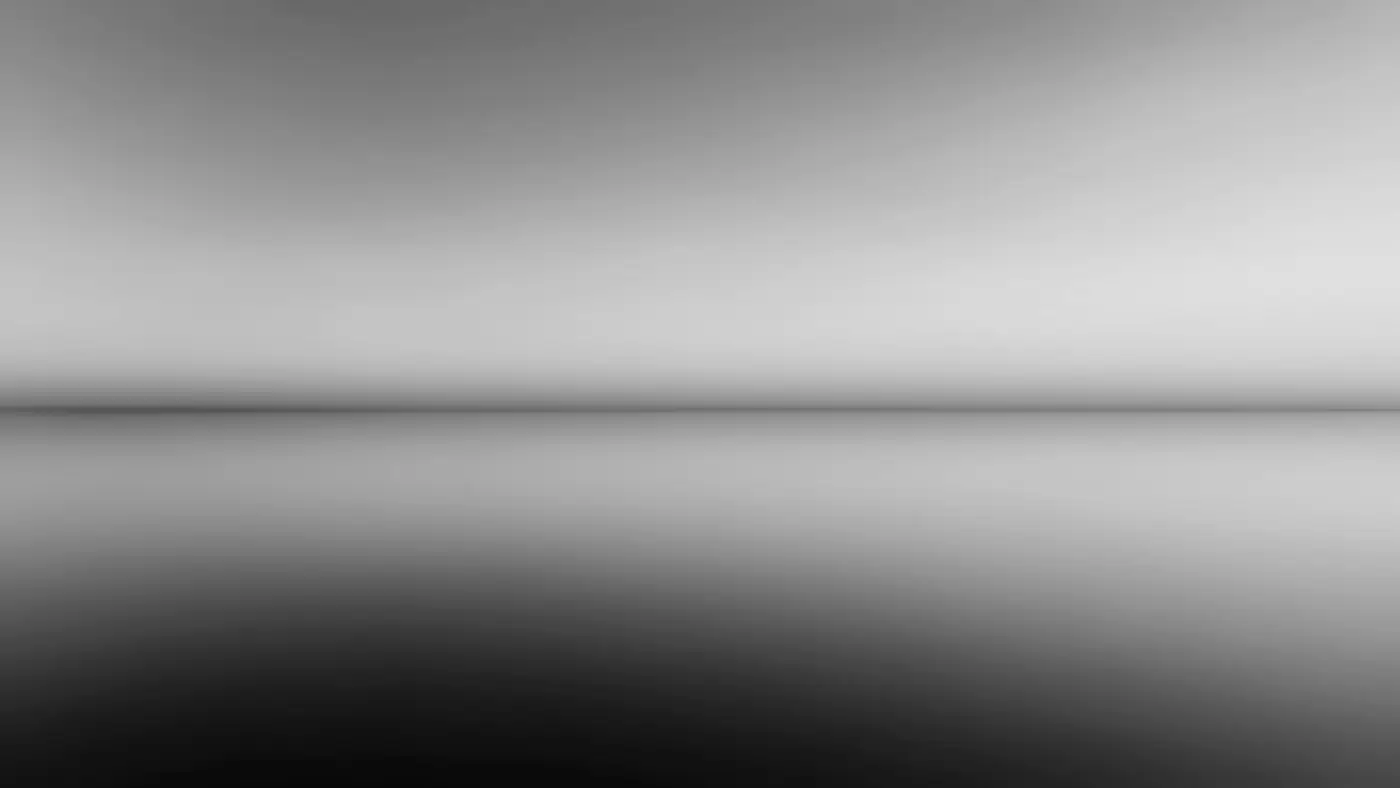
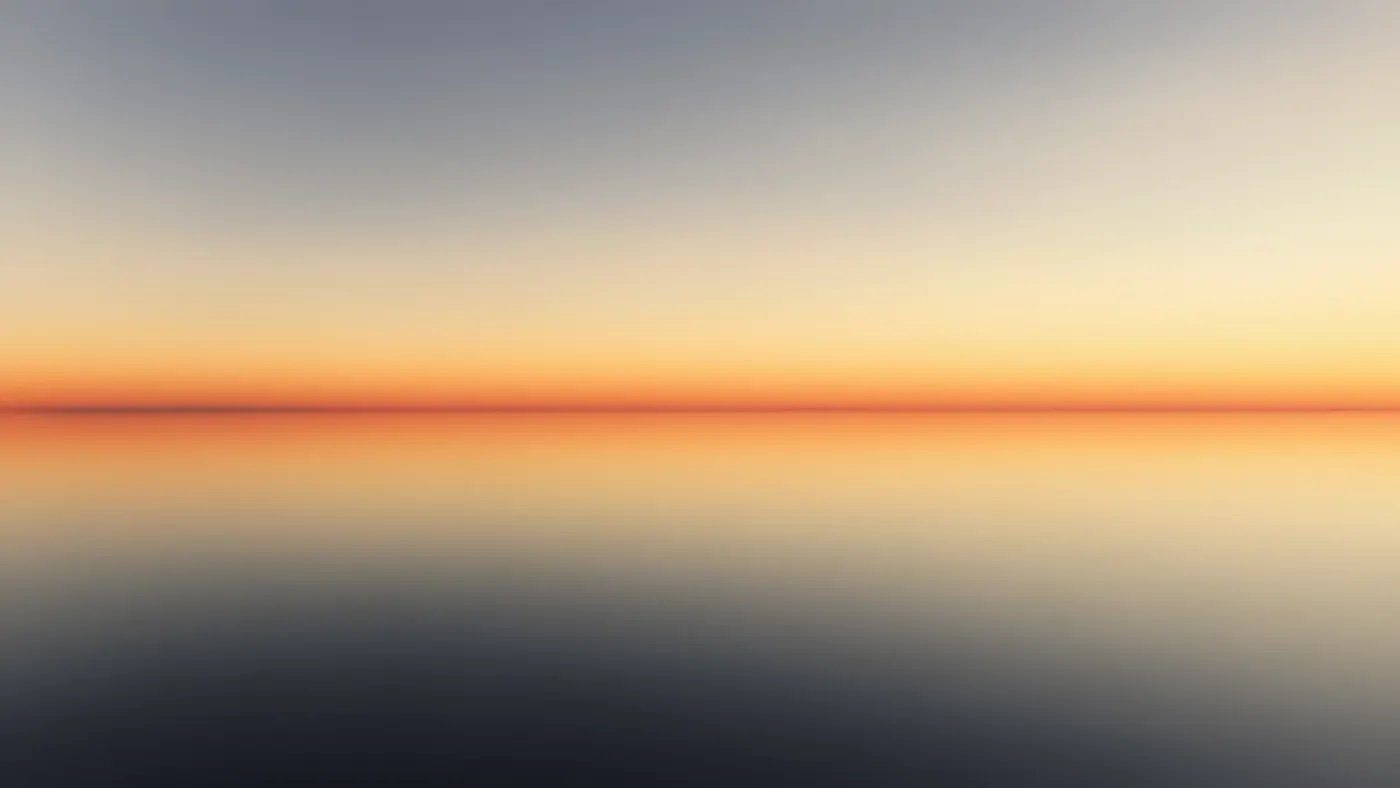
Obra: el contenido del libro vuelve al diseño anterior (papel, fotos a color, arte con paleta); solo la cubierta queda negra
Claude-Session: https://claude.ai/code/session_01QmsgToyzAdCvMSUUYzzKLK

diff --git a/src/styles/book.css b/src/styles/book.css
@@ -24,7 +24,7 @@
 .bw-ribbon { position: absolute; left: calc(50% + var(--pw) * 0.07); top: 99%; width: calc(var(--pw) * 0.022); height: calc(var(--ph) * 0.17); background: linear-gradient(90deg, #b9bcc4, #868a93); clip-path: polygon(0 0, 100% 0, 100% 100%, 50% 84%, 0 100%); transform: translateZ(-14px); }
 .bw-gutter { position: absolute; left: calc(50% - var(--pw) * 0.03); top: 0; width: calc(var(--pw) * 0.06); height: 100%; background: linear-gradient(to right, transparent, rgba(0, 0, 0, 0.4) 48%, rgba(0, 0, 0, 0.4) 52%, transparent); transform: translateZ(13px); opacity: 0; pointer-events: none; }
 .bw-end, .bw-leaf { position: absolute; left: 50%; top: 0; width: var(--pw); height: var(--ph); }
-.bw-end { transform: translateZ(-1px); font-size: calc(var(--pw) / 34); }
+.bw-end { transform: translateZ(-1px); font-size: calc(var(--pw) / 40); }
 .bw-end > .pg { border-radius: 2px 6px 6px 2px; }
 .bw-leaf { transform-origin: 0 50%; transform-style: preserve-3d; cursor: pointer; }
 .lf, .lc { position: absolute; inset: 0; transform-style: preserve-3d; }
@@ -32,7 +32,7 @@
 .sg > .sg { left: 100%; }
 .sf, .sb { position: absolute; inset: 0; width: calc(100% + 1.6px); overflow: hidden; backface-visibility: hidden; -webkit-backface-visibility: hidden; }
 .sb { transform: rotateY(180deg); }
-.sc { position: absolute; top: 0; left: 0; width: var(--pw); height: var(--ph); font-size: calc(var(--pw) / 34); }
+.sc { position: absolute; top: 0; left: 0; width: var(--pw); height: var(--ph); font-size: calc(var(--pw) / 40); }
 .shd { position: absolute; inset: 0; z-index: 5; background: #000; opacity: 0; pointer-events: none; }
 
 /* Objetos de pie: se contrarrestan con JS para mirar siempre a la cámara */
@@ -40,81 +40,85 @@
 .bw-cup { --w: calc(var(--pw) * 0.19); width: var(--w); height: calc(var(--w) * 0.9167); left: calc(var(--pw) * 0.9); top: calc(var(--ph) * -0.7 - var(--w) * 0.9167); }
 .bw-plant { --w: calc(var(--pw) * 0.15); width: var(--w); height: calc(var(--w) * 1.4); left: calc(var(--pw) * 0.62); top: calc(var(--ph) * -0.6 - var(--w) * 1.4); }
 
-/* Páginas */
-.pg { position: absolute; inset: 0; overflow: hidden; color: var(--ink); font-family: 'Inter Tight Variable', system-ui, sans-serif; background: url('/configurador/mesa.webp') 0 0 / 128px 128px, linear-gradient(160deg, #17181d, #0a0b0d); }
-.pg b, .pg h4, .pg h5 { font-weight: 500; }
-.pg-bar { position: absolute; left: 2.2em; right: 2.2em; top: 1.6em; z-index: 3; display: flex; align-items: center; gap: 1.6em; font-size: 0.6em; color: var(--mute); letter-spacing: 0.04em; }
-.pg-bar b { margin-right: auto; font-size: 1.2em; color: var(--ink); letter-spacing: 0.16em; text-transform: uppercase; font-weight: 500; }
-.pg-bar i { font-style: normal; padding: 0.55em 1.2em; border-radius: 99em; border: 1px solid rgba(255, 255, 255, 0.35); color: var(--ink); }
+/* Páginas: el contenido conserva el diseño original (papel, fotos a color, arte con la paleta); solo la cubierta es negra */
+.pg { position: absolute; inset: 0; overflow: hidden; font-family: var(--sfont, 'Inter Tight Variable', system-ui, sans-serif); }
+.pg.lt { background: #f4f1ea; color: #15161a; } .pg.dk { background: #0d0e12; color: #f3f1ec; }
+
+.pg-bar { position: absolute; left: 2.2em; right: 2.2em; top: 1.5em; z-index: 3; display: flex; align-items: center; gap: 1.6em; font-size: 0.62em; }
+.pg-bar b { margin-right: auto; font-size: 1.25em; letter-spacing: 0.02em; }
+.pg-bar span { opacity: 0.75; } .pg-bar i { font-style: normal; padding: 0.55em 1.2em; border-radius: 99em; background: currentColor; }
+.pg-bar i { color: inherit; position: relative; } .pg.lt .pg-bar i { background: #15161a; color: #f4f1ea; } .pg.dk .pg-bar i { background: #f3f1ec; color: #0d0e12; }
 .pg-ph { position: absolute; overflow: hidden; background-size: cover; background-position: center; }
 .pg-ph.photo { background-image: var(--pix, none); }
 .bw-leaf.pixing .pg-ph.photo { image-rendering: pixelated; }
 .pg-txt { position: absolute; z-index: 3; }
-.pg-k { font-size: 0.62em; letter-spacing: 0.2em; text-transform: uppercase; color: var(--mute); }
-.pg h4 { margin-top: 0.8em; line-height: 1.02; letter-spacing: -0.035em; font-weight: 500; }
-.pg-s { margin-top: 1.1em; font-size: 0.74em; line-height: 1.55; color: var(--mute); }
-.pg-btn { display: inline-block; margin-top: 1.6em; font-size: 0.66em; letter-spacing: 0.06em; padding: 0.85em 1.6em; border-radius: 99em; border: 1px solid rgba(255, 255, 255, 0.4); color: var(--ink); }
-.pg-pct { position: absolute; right: 2em; bottom: 1.3em; z-index: 4; font-size: 0.8em; letter-spacing: 0.18em; font-weight: 400; color: rgba(255, 255, 255, 0.85); opacity: 0; transition: opacity 0.4s; }
+.pg-k { font-size: 0.66em; letter-spacing: 0.16em; text-transform: uppercase; opacity: 0.7; }
+.pg h4 { margin-top: 0.7em; font-family: 'Fraunces Variable', Georgia, serif; font-weight: 400; font-style: italic; line-height: 0.98; letter-spacing: -0.02em; }
+.pg-s { margin-top: 1em; font-size: 0.72em; line-height: 1.5; opacity: 0.78; }
+.pg-btn { display: inline-block; margin-top: 1.4em; font-size: 0.66em; padding: 0.8em 1.5em; border-radius: 99em; background: #d4ff3f; color: #15161a; font-weight: 600; }
+.pg-pct { position: absolute; right: 2em; bottom: 1.2em; z-index: 4; font-size: 3em; font-weight: 300; color: #fff; text-shadow: 0 2px 20px rgba(0, 0, 0, 0.5); opacity: 0; transition: opacity 0.4s; }
 .pg-pct::after { content: var(--pcts, '100%'); }
-.bw-leaf.pixing .pg-pct { opacity: 1; }
-.pg.v0 .pg-ph { right: 0; top: 0; bottom: 0; width: 54%; }
-.pg.v0 .pg-ph::after { content: ""; position: absolute; inset: 0; background: linear-gradient(to right, #0b0c0e, transparent 40%); }
-.pg.v0 .pg-txt { left: 2.4em; bottom: 2.8em; width: 38%; } .pg.v0 h4 { font-size: 2.3em; }
-.pg.v1 .pg-ph { inset: 0; }
-.pg.v1::after { content: ""; position: absolute; inset: 0; z-index: 2; background: linear-gradient(to top, rgba(0, 0, 0, 0.82), rgba(0, 0, 0, 0.1) 62%); }
-.pg.v1 .pg-txt { left: 2.4em; bottom: 2.6em; width: 62%; } .pg.v1 h4 { font-size: 3em; }
-.pg.v2 .pg-ph { left: 2.2em; right: 2.2em; top: 4.4em; height: 50%; border-radius: 0.6em; }
-.pg.v2 .pg-txt { left: 2.2em; right: 2.2em; bottom: 2em; display: grid; grid-template-columns: 1.2fr 1fr; gap: 0 2em; align-items: end; } .pg.v2 h4 { font-size: 1.8em; grid-row: span 3; margin-top: 0; }
+.bw-leaf.pixing .pg-pct { opacity: 0.95; }
+.pg.v0 .pg-ph { right: 0; top: 0; bottom: 0; width: 56%; }
+.pg.v0 .pg-txt { left: 2.4em; bottom: 2.6em; width: 36%; } .pg.v0 h4 { font-size: 3.1em; }
+.pg.v1 .pg-ph { inset: 0; } .pg.v1::after { content: ""; position: absolute; inset: 0; z-index: 2; background: linear-gradient(to top, rgba(0, 0, 0, 0.7), transparent 60%); }
+.pg.v1 .pg-txt { left: 2.4em; bottom: 2.4em; width: 62%; color: #fff; } .pg.v1 h4 { font-size: 4em; } .pg.v1 .pg-bar { color: #fff; } .pg.v1 .pg-bar i { background: #fff !important; color: #15161a !important; }
+.pg.v2 .pg-ph { left: 2.2em; right: 2.2em; top: 4em; height: 52%; border-radius: 1em; }
+.pg.v2 .pg-txt { left: 2.2em; right: 2.2em; bottom: 1.8em; display: grid; grid-template-columns: 1.3fr 1fr; gap: 0 2em; align-items: end; } .pg.v2 h4 { font-size: 2.4em; grid-row: span 3; margin-top: 0; }
 .pg.v2 .pg-k { display: none; } .pg.v2 .pg-s { margin-top: 0; } .pg.v2 .pg-btn { width: fit-content; margin-top: 0.8em; }
-.pd .pd-txt { position: absolute; left: 2.4em; top: 5.2em; width: 38%; z-index: 3; }
-.pd-no { font-size: 0.62em; letter-spacing: 0.2em; color: var(--mute); }
-.pd h5 { margin-top: 0.5em; font-size: 2.3em; line-height: 1; letter-spacing: -0.04em; }
-.pd .pg-k { margin-top: 0.9em; }
-.pg-tags { margin-top: 1.5em; display: flex; flex-wrap: wrap; gap: 0.5em; }
-.pg-tags li { font-size: 0.62em; padding: 0.5em 1.1em; border: 1px solid var(--hair); border-radius: 99em; color: var(--mute); }
-.pd-grid { position: absolute; right: 2.2em; top: 4.4em; bottom: 2.4em; width: 50%; display: grid; grid-template-columns: 1fr 1fr; grid-template-rows: 1fr 1fr; gap: 0.7em; z-index: 3; }
+.pd .pd-txt { position: absolute; left: 2.4em; top: 5em; width: 38%; z-index: 3; }
+.pd-no { font-size: 0.66em; letter-spacing: 0.16em; opacity: 0.5; }
+.pd h5 { margin-top: 0.4em; font-size: 3em; line-height: 1; letter-spacing: -0.04em; font-weight: 600; }
+.pd .pg-k { margin-top: 0.8em; }
+.pg-tags { margin-top: 1.4em; display: flex; flex-wrap: wrap; gap: 0.5em; }
+.pg-tags li { font-size: 0.6em; padding: 0.5em 1.1em; border: 1px solid currentColor; border-radius: 99em; opacity: 0.75; }
+.pd-grid { position: absolute; right: 2.2em; top: 4.2em; bottom: 2.2em; width: 50%; display: grid; grid-template-columns: 1fr 1fr; grid-template-rows: 1fr 1fr; gap: 0.7em; z-index: 3; }
 .pd-grid .pg-tile:first-child { grid-row: span 2; }
-.pg-tile { position: relative; overflow: hidden; border-radius: 0.5em; border: 1px solid var(--hair); }
+.pg-tile { position: relative; overflow: hidden; border-radius: 0.8em; }
 .pg-tile i, .pg-ph i { position: absolute; display: block; }
-.pc { display: grid; grid-template-columns: 0.8fr 1.5fr; gap: 2em; padding: 5em 2.4em 2em; align-content: start; }
-.pc-l h4 { font-size: 2.3em; margin-top: 0; }
-.pc-l p { margin-top: 0.8em; font-size: 0.66em; letter-spacing: 0.18em; text-transform: uppercase; color: var(--mute); }
-.pc-r { display: grid; align-content: start; }
-.pc-r button { display: grid; grid-template-columns: 2em auto 1fr auto; align-items: baseline; gap: 0.7em; width: 100%; padding: 0.85em 0; border-bottom: 1px solid var(--hair); text-align: left; font: inherit; color: inherit; font-size: 0.9em; transition: padding 0.3s; }
-.pc-r button:hover { padding-left: 0.8em; }
-.pc-r button em { font-style: normal; color: var(--mute); font-size: 0.8em; } .pc-r button b { font-weight: 500; } .pc-r button i { border-bottom: 1px dotted var(--hair); transform: translateY(-0.3em); } .pc-r button span { color: var(--mute); font-size: 0.82em; }
-.pc-f { position: absolute; left: 2.4em; bottom: 3.4em; font-size: 0.62em; color: var(--mute); letter-spacing: 0.04em; }
-.bk-pn { position: absolute; right: 1.6em; bottom: 1.1em; z-index: 4; font-size: 0.6em; letter-spacing: 0.14em; color: var(--mute); } .sb .bk-pn { right: auto; left: 1.6em; }
-.bw-cover { position: absolute; inset: 0; display: flex; flex-direction: column; align-items: center; justify-content: center; gap: 1.4em; color: var(--ink); border-radius: 2px 6px 6px 2px; background: url('/configurador/mesa.webp') 0 0 / 128px 128px, radial-gradient(90% 80% at 30% 18%, #1c1d22, #050506 72%); }
+.pc { display: grid; grid-template-columns: 0.8fr 1.5fr; gap: 2em; padding: 4.5em 2.4em 2em; align-content: start; }
+.pc-l h4 { font-size: 3.2em; margin-top: 0; }
+.pc-l p { margin-top: 0.8em; font-size: 0.66em; opacity: 0.55; letter-spacing: 0.1em; text-transform: uppercase; }
+.pc-r { display: grid; gap: 0; align-content: start; }
+.pc-r button { display: grid; grid-template-columns: 2em auto 1fr auto; align-items: baseline; gap: 0.7em; width: 100%; padding: 0.8em 0; border-bottom: 1px solid rgba(0, 0, 0, 0.14); text-align: left; font: inherit; color: inherit; font-size: 0.85em; transition: padding 0.3s, color 0.3s; }
+.pc-r button:hover { padding-left: 0.8em; color: var(--b, #0033ff); }
+.pc-r button em { font-style: normal; opacity: 0.45; font-size: 0.8em; } .pc-r button b { font-weight: 600; } .pc-r button i { border-bottom: 1px dotted rgba(0, 0, 0, 0.3); transform: translateY(-0.3em); } .pc-r button span { opacity: 0.55; font-size: 0.85em; }
+.pc-f { position: absolute; left: 2.4em; bottom: 1.8em; font-size: 0.6em; opacity: 0.5; }
+.bk-pn { position: absolute; right: 1.6em; bottom: 1.1em; z-index: 4; font-size: 0.6em; letter-spacing: 0.1em; opacity: 0.45; } .sb .bk-pn { right: auto; left: 1.6em; }
+/* Cubierta negra */
+.bw-cover { font-size: 1.18em; position: absolute; inset: 0; display: flex; flex-direction: column; align-items: center; justify-content: center; gap: 1.4em; color: var(--ink); border-radius: 2px 6px 6px 2px; background: url('/configurador/mesa.webp') 0 0 / 128px 128px, radial-gradient(90% 80% at 30% 18%, #1c1d22, #050506 72%); }
 .bw-cover::after { content: ""; position: absolute; inset: 5%; border: 1px solid rgba(255, 255, 255, 0.12); border-radius: 2px; pointer-events: none; }
 .hm { display: grid; place-items: center; width: 3em; height: 3em; border-radius: 50%; border: 1px solid rgba(255, 255, 255, 0.55); font-style: normal; font-weight: 500; font-size: 1em; }
 .bw-cover b { font-size: 1.15em; font-weight: 400; letter-spacing: 0.38em; text-indent: 0.38em; text-transform: uppercase; text-shadow: 0 1px 0 rgba(255, 255, 255, 0.1), 0 -1px 0 rgba(0, 0, 0, 0.8); }
 .bw-cover span { font-size: 0.58em; letter-spacing: 0.3em; text-transform: uppercase; color: var(--mute); }
-.pe { display: flex; flex-direction: column; align-items: center; justify-content: center; gap: 1.1em; text-align: center; }
-.pe b { font-size: 1.25em; line-height: 1.2; max-width: 11em; font-weight: 400; letter-spacing: -0.01em; } .pe a { font-size: 0.68em; letter-spacing: 0.06em; border-bottom: 1px solid currentColor; padding-bottom: 0.2em; color: var(--mute); }
+.pe { display: flex; flex-direction: column; align-items: center; justify-content: center; gap: 1em; text-align: center; background: radial-gradient(90% 80% at 70% 20%, #1c2030, #090a0e 70%); }
+.pe b { font-size: 1.6em; letter-spacing: 0.01em; max-width: 12em; line-height: 1.15; } .pe a { font-size: 0.7em; border-bottom: 1px solid currentColor; padding-bottom: 0.2em; }
 
-/* Arte monocromo de las páginas sin fotografía */
-.pa0 { background: linear-gradient(135deg, #d9dadf, #50535b); }
-.pa0 .s1 { right: -8%; top: -18%; width: 62%; aspect-ratio: 1; border-radius: 50%; background: rgba(255, 255, 255, 0.8); }
-.pa0 .s2 { left: 12%; top: 26%; width: 34%; height: 4px; background: rgba(0, 0, 0, 0.55); box-shadow: 0 14px 0 rgba(0, 0, 0, 0.35), 0 28px 0 rgba(0, 0, 0, 0.2); }
-.pa1 { background: #0d0e11; }
-.pa1 .s1 { left: 50%; top: 50%; width: 70%; aspect-ratio: 1; translate: -50% -50%; border-radius: 50%; border: 8px solid #d8d9de; }
-.pa1 .s2 { left: 50%; top: 50%; width: 34%; aspect-ratio: 1; translate: -50% -50%; border-radius: 50%; background: #5a5d65; }
-.pa2 { background: radial-gradient(120% 100% at 50% 120%, #8d9099, #1a1b20); }
-.pa2 .s1 { left: 22%; top: 16%; width: 40%; aspect-ratio: 1; rotate: 18deg; background: rgba(255, 255, 255, 0.14); border: 1px solid rgba(255, 255, 255, 0.4); }
-.pa2 .s2 { left: 40%; top: 28%; width: 40%; aspect-ratio: 1; rotate: -8deg; background: rgba(255, 255, 255, 0.22); }
-.pa3 { background: repeating-linear-gradient(90deg, #d4d5da 0 12%, #6f727a 12% 24%); }
-.pa3 .s1 { inset: 0; background: linear-gradient(to top, rgba(0, 0, 0, 0.5), transparent 60%); }
-.pa4 { background: linear-gradient(90deg, #2c2e34 50%, #b9bbc2 50%); }
-.pa4 .s1 { left: 50%; top: 50%; width: 40%; aspect-ratio: 1; translate: -50% -50%; border-radius: 50%; background: #f1f2f4; }
-.pa5 { background: #1c1d22; }
-.pa5 .s1 { left: 6%; top: 8%; width: 60%; aspect-ratio: 1; border-radius: 50%; background: radial-gradient(closest-side, rgba(255, 255, 255, 0.5), transparent); }
-.pa5 .s2 { right: 6%; bottom: 14%; width: 46%; aspect-ratio: 1; border-radius: 50%; background: radial-gradient(closest-side, rgba(255, 255, 255, 0.28), transparent); }
-.pa6 { background: #d9dadf; }
-.pa6 .s1 { inset: 0; background: linear-gradient(rgba(0, 0, 0, 0.12) 1px, transparent 1px) 0 0 / 100% 20%, linear-gradient(90deg, rgba(0, 0, 0, 0.12) 1px, transparent 1px) 0 0 / 16.66% 100%; }
-.pa6 .s2 { left: 24%; top: 24%; width: 38%; aspect-ratio: 1; background: #14151a; }
-.pa7 { background: radial-gradient(circle at 70% 30%, #9a9da6, #1c1d22); }
-.pa7 .s1 { right: 8%; top: 12%; width: 56%; aspect-ratio: 1; border-radius: 50%; box-shadow: 0 0 0 12px rgba(255, 255, 255, 0.14), 0 0 0 26px rgba(255, 255, 255, 0.08); }
+/* Arte de las páginas sin fotografía (usa la paleta del proyecto) */
+.pa i { position: absolute; display: block; }
+.pa0 { background: linear-gradient(135deg, var(--a), var(--b)); }
+.pa0 .s1 { right: -8%; top: -18%; width: 62%; aspect-ratio: 1; border-radius: 50%; background: rgba(255, 255, 255, 0.82); }
+.pa0 .s2 { left: 12%; top: 26%; width: 34%; height: 5px; border-radius: 3px; background: rgba(255, 255, 255, 0.85); box-shadow: 0 14px 0 rgba(255, 255, 255, 0.5), 0 28px 0 rgba(255, 255, 255, 0.3); }
+.pa1 { background: #0d0d10; }
+.pa1 .s1 { left: 50%; top: 50%; width: 70%; aspect-ratio: 1; translate: -50% -58%; border-radius: 50%; border: 10px solid var(--a); }
+.pa1 .s2 { left: 50%; top: 50%; width: 36%; aspect-ratio: 1; translate: -50% -58%; border-radius: 50%; background: var(--b); }
+.pa2 { background: radial-gradient(120% 100% at 50% 120%, var(--a), color-mix(in srgb, var(--b) 80%, #000)); }
+.pa2 .s1 { left: 22%; top: 16%; width: 40%; aspect-ratio: 1; rotate: 18deg; background: rgba(255, 255, 255, 0.2); border: 1px solid rgba(255, 255, 255, 0.5); border-radius: calc(var(--rad) + 6px); backdrop-filter: blur(6px); }
+.pa2 .s2 { left: 40%; top: 28%; width: 40%; aspect-ratio: 1; rotate: -8deg; background: rgba(255, 255, 255, 0.28); border-radius: calc(var(--rad) + 6px); }
+.pa3 { background: repeating-linear-gradient(90deg, var(--a) 0 12%, color-mix(in srgb, var(--a) 40%, #fff) 12% 24%); }
+.pa3 .s1 { inset: 0; background: linear-gradient(to top, rgba(0, 0, 0, 0.55), transparent 60%); }
+.pa4 { background: linear-gradient(90deg, var(--b) 50%, color-mix(in srgb, var(--a) 70%, #fff) 50%); }
+.pa4 .s1 { left: 50%; top: 50%; width: 40%; aspect-ratio: 1; translate: -50% -60%; border-radius: 50%; background: #fff; mix-blend-mode: difference; }
+.pa5 { background: color-mix(in srgb, var(--b) 40%, #111); }
+.pa5 .s1 { left: 6%; top: 8%; width: 60%; aspect-ratio: 1; border-radius: 50%; background: var(--a); filter: blur(28px); opacity: 0.9; }
+.pa5 .s2 { right: 6%; bottom: 14%; width: 46%; aspect-ratio: 1; border-radius: 50%; background: color-mix(in srgb, var(--b) 50%, #fff); filter: blur(24px); }
+.pa6 { background: color-mix(in srgb, var(--a) 22%, #f3f1ec); }
+.pa6 .s1 { inset: 0; background: linear-gradient(rgba(0, 0, 0, 0.1) 1px, transparent 1px) 0 0 / 100% 20%, linear-gradient(90deg, rgba(0, 0, 0, 0.1) 1px, transparent 1px) 0 0 / 16.66% 100%; }
+.pa6 .s2 { left: 24%; top: 24%; width: 38%; aspect-ratio: 1; background: var(--b); border-radius: calc(var(--rad) + 4px); }
+.pa6 figcaption { color: #14161a; text-shadow: none; }
+.pa7 { background: radial-gradient(circle at 70% 30%, color-mix(in srgb, var(--a) 70%, #fff), var(--b)); }
+.pa7 .s1 { right: 8%; top: 12%; width: 56%; aspect-ratio: 1; border-radius: 50%; box-shadow: 0 0 0 14px rgba(255, 255, 255, 0.18), 0 0 0 30px rgba(255, 255, 255, 0.1), 0 0 0 48px rgba(255, 255, 255, 0.05); }
+.pa6 .bk-vt { color: #14161a; text-shadow: none; }
 
 /* Interfaz */
 .bw-intro { position: absolute; left: clamp(20px, 4cqw, 64px); top: clamp(84px, 13svh, 140px); z-index: 8; max-width: 17rem; color: #fff; pointer-events: none; }
